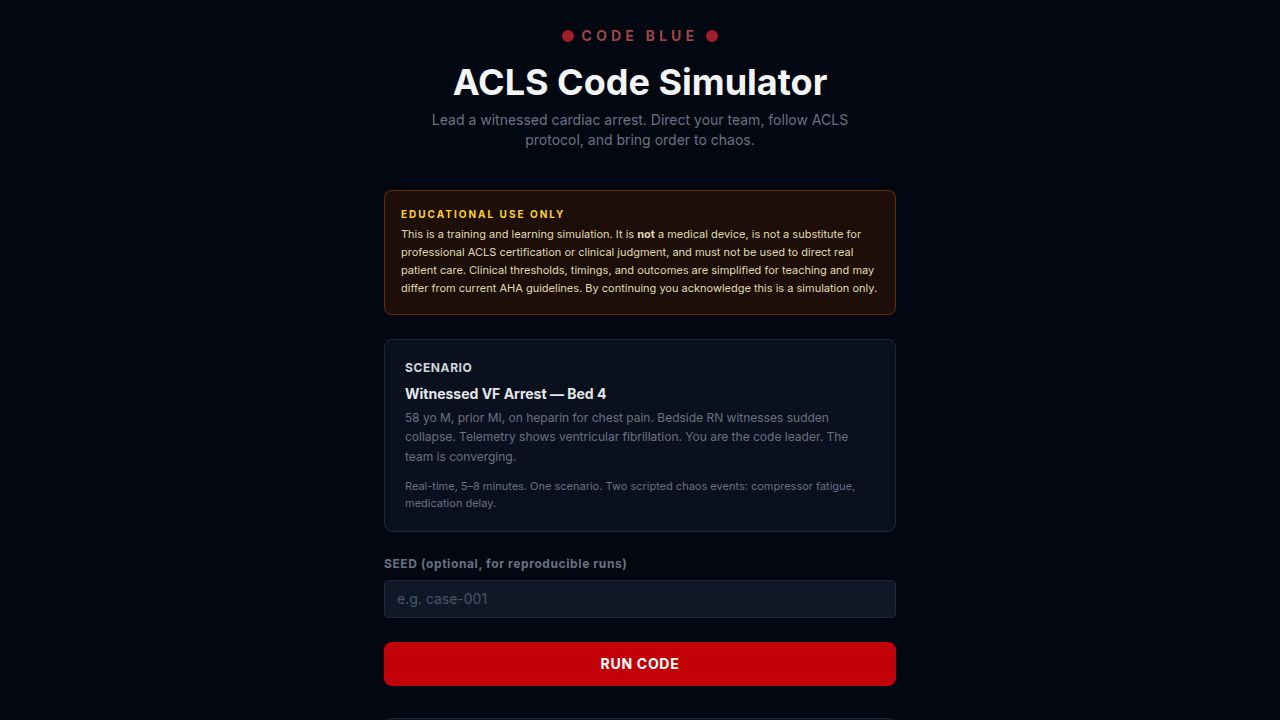
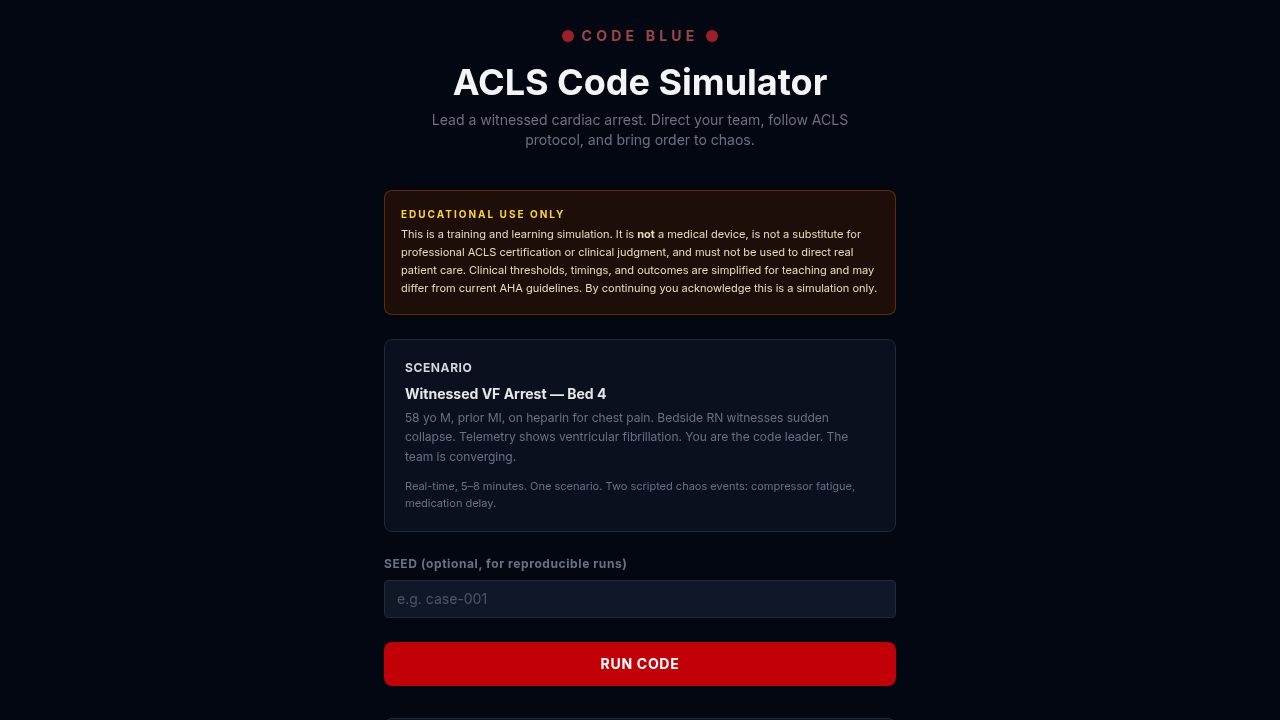
Task #18: Isometric room furniture and depth — make room look like a real ICU bay
Added recognizable ICU furniture silhouettes to all five zones in IsometricRoom.tsx
using pure SVG (no new dependencies). All furniture is drawn using the existing
isometric geometry helpers (isoFloor, isoLeftFace, isoRightFace) or direct SVG
primitives, and updates reactively to game state.

Changes by zone:
- PatientBedFurniture: mattress inset diamond, head rail (3-face isometric box
  with blue top), foot rail, pillow ellipse, and side rail lines along mattress
  edges. Mattress fill brightens during CPR.
- DefibFurniture: defibrillator cart body (3-face isometric box), monitor screen
  face inset into the right face polygon using bilinear interpolation, EKG trace
  line across the screen, and two paddle handles on the cart top. Screen color
  switches amber when charged, cyan otherwise.
- MedCartFurniture: medication cart body with drawer divider lines on the left
  face and an IV bag ellipse + drip line on the cart top surface.
- AirwayCartFurniture: airway cart with drawer dividers on the right face, BVM
  bag ellipse + tube line on top, and an IV pole with crossbar and bag that
  turns green when advanced airway is in place.
- DoorFurniture: door arch rising above the tile — two vertical pillars, a
  quadratic-bezier arch, filled door panel, door handle dot, and lintel bar.

Helper additions:
- isoSlab() alias for isoFloor (semantic clarity for furniture surfaces)
- isoPanel() helper returning {top, left, right} face polygon strings
[…]

diff --git a/artifacts/code-sim/src/components/game/IsometricRoom.tsx b/artifacts/code-sim/src/components/game/IsometricRoom.tsx
@@ -38,6 +38,22 @@ function isoRightFace(cx: number, cy: number, w: number, h: number, fh: number):
   ].join(' ');
 }
 
+/* ── Isometric furniture helpers ──────────────────────────────────── */
+
+/** A thin "slab" top face — handy for rails, shelves, table-tops */
+function isoSlab(cx: number, cy: number, w: number, h: number): string {
+  return isoFloor(cx, cy, w, h);
+}
+
+/** Vertical wall / panel face oriented on the left side */
+function isoPanel(cx: number, cy: number, w: number, h: number, fh: number) {
+  return {
+    top:   isoFloor(cx, cy, w, h),
+    left:  isoLeftFace(cx, cy, w, h, fh),
+    right: isoRightFace(cx, cy, w, h, fh),
+  };
+}
+
 /* ── Room object definitions ──────────────────────────────────────── */
 
 interface RoomZone {
@@ -172,6 +188,240 @@ function menuItemCls(variant: MenuAction['variant'], disabled?: boolean): string
 function clamp(v: number, lo: number, hi: number) { return Math.max(lo, Math.min(hi, v)); }
 
 const NON_TERMINAL = new Set(['issued', 'heard', 'acknowledged', 'in_progress']);
+
+/* ── Zone furniture SVG ───────────────────────────────────────────── */
+
+interface FurnitureProps { zone: RoomZone }
+
+function PatientBedFurniture({ zone, cprActive }: FurnitureProps & { cprActive: boolean }) {
+  const { cx, cy } = zone;
+  // Mattress surface (inset)
+  const mattW = 195, mattH = 96;
+  // Head-board: thin box at top of diamond (toward upper iso point)
+  const headCy = cy - zone.h / 2 + 14; // near top diamond point
+  const headW = 145, headH = 16, headFh = 11;
+  // Foot-board: thinner box near bottom diamond point
+  const footCy = cy + zone.h / 2 - 12;
+  const footW = 120, footH = 13, footFh = 8;
+  // Pillow: tiny diamond just south of head board
+  const pillowCy = headCy + 22;
+
+  const mattFill   = cprActive ? '#1a3a6a' : '#1a3560';
+  const railFill   = '#0e2040';
+  const railTop    = '#2563eb';
+  const railStroke = '#3b82f680';
+
+  return (
+    <g opacity="0.92">
+      {/* Mattress */}
+      <polygon points={isoSlab(cx, cy, mattW, mattH)}
+        fill={mattFill} stroke="#3b82f650" strokeWidth="1" />
+
+      {/* Head board */}
+      <polygon points={isoLeftFace(cx, headCy, headW, headH, headFh)}
+        fill={railFill} stroke={railStroke} strokeWidth="0.5" />
+      <polygon points={isoRightFace(cx, headCy, headW, headH, headFh)}
+        fill="#0a1830" stroke={railStroke} strokeWidth="0.5" />
+      <polygon points={isoSlab(cx, headCy, headW, headH)}
+        fill={railTop} stroke="#60a5fa" strokeWidth="1" />
+
+      {/* Pillow */}
+      <polygon points={isoSlab(cx, pillowCy, 55, 26)}
+        fill="#e2e8f0" stroke="#94a3b8" strokeWidth="0.8" opacity="0.55" />
+
+      {/* Left bed rail (line along left edge of mattress) */}
+      <line
+        x1={cx - mattW / 2} y1={cy}
+        x2={cx}              y2={cy - mattH / 2}
+        stroke="#1d4ed8" strokeWidth="1.2" opacity="0.6" />
+      {/* Right bed rail */}
+      <line
+        x1={cx + mattW / 2} y1={cy}
+        x2={cx}              y2={cy - mattH / 2}
+        stroke="#1d4ed8" strokeWidth="1.2" opacity="0.6" />
+
+      {/* Foot board */}
+      <polygon points={isoLeftFace(cx, footCy, footW, footH, footFh)}
+        fill={railFill} stroke={railStroke} strokeWidth="0.5" />
+      <polygon points={isoRightFace(cx, footCy, footW, footH, footFh)}
+        fill="#0a1830" stroke={railStroke} strokeWidth="0.5" />
+      <polygon points={isoSlab(cx, footCy, footW, footH)}
+        fill={railTop} stroke="#60a5fa" strokeWidth="1" />
+    </g>
+  );
+}
+
+function DefibFurniture({ zone, charged }: FurnitureProps & { charged: boolean }) {
+  const { cx, cy } = zone;
+  // Main defibrillator cart body — sits right-of-centre on the tile
+  const boxCx = cx + 18, boxCy = cy - 8;
+  const bW = 70, bH = 36, bFh = 30;
+  const screenColor = charged ? '#fbbf24' : '#22d3ee';
+
+  // Screen rectangle within the right face of the monitor
+  // Right face corners: (cx+w/2,cy), (cx,cy+h/2), (cx,cy+h/2+fh), (cx+w/2,cy+fh)
+  const rfTL = { x: boxCx + bW / 2,           y: boxCy };
+  const rfBL = { x: boxCx,                     y: boxCy + bH / 2 };
+  const rfBR = { x: boxCx,                     y: boxCy + bH / 2 + bFh };
+  const rfTR = { x: boxCx + bW / 2,            y: boxCy + bFh };
+  // Screen inset (70% of face)
+  const sw = 0.65, sh = 0.6, ox = 0.15, oy = 0.2;
+  function lerp2(a: {x:number,y:number}, b: {x:number,y:number}, t: number) {
+    return { x: a.x + (b.x - a.x) * t, y: a.y + (b.y - a.y) * t };
+  }
+  const scrTL = lerp2(lerp2(rfTL, rfBL, oy),         lerp2(rfTR, rfBR, oy),         ox);
+  const scrTR = lerp2(lerp2(rfTL, rfBL, oy),         lerp2(rfTR, rfBR, oy),         ox + sw);
+  const scrBL = lerp2(lerp2(rfTL, rfBL, oy + sh),    lerp2(rfTR, rfBR, oy + sh),    ox);
+  const scrBR = lerp2(lerp2(rfTL, rfBL, oy + sh),    lerp2(rfTR, rfBR, oy + sh),    ox + sw);
+
+  return (
+    <g opacity="0.93">
+      <polygon points={isoLeftFace(boxCx, boxCy, bW, bH, bFh)}
+        fill="#1a0808" stroke="#ef444440" strokeWidth="0.5" />
+      <polygon points={isoRightFace(boxCx, boxCy, bW, bH, bFh)}
+        fill="#250d0d" stroke="#ef444440" strokeWidth="0.5" />
+      <polygon points={isoSlab(boxCx, boxCy, bW, bH)}
+        fill="#3b1212" stroke="#ef4444" strokeWidth="1" />
+      {/* Monitor screen */}
+      <polygon
+        points={`${scrTL.x},${scrTL.y} ${scrTR.x},${scrTR.y} ${scrBR.x},${scrBR.y} ${scrBL.x},${scrBL.y}`}
+        fill={charged ? '#78350f' : '#0c2a2e'}
+        stroke={screenColor}
+        strokeWidth="1"
+        opacity="0.9"
+      />
+      {/* Screen glow line (EKG trace) */}
+      <line
+        x1={(scrTL.x + scrBL.x) / 2} y1={(scrTL.y + scrBL.y) / 2}
+        x2={(scrTR.x + scrBR.x) / 2} y2={(scrTR.y + scrBR.y) / 2}
+        stroke={screenColor} strokeWidth="1" opacity="0.7"
+      />
+      {/* Paddles on top */}
+      <line x1={boxCx - 4} y1={boxCy - bH / 2 + 2} x2={boxCx - 18} y2={boxCy - bH / 2 - 5}
+        stroke="#9ca3af" strokeWidth="1.5" />
+      <line x1={boxCx + 10} y1={boxCy - bH / 2 + 4} x2={boxCx + 22} y2={boxCy - bH / 2 - 4}
+        stroke="#9ca3af" strokeWidth="1.5" />
+    </g>
+  );
+}
+
+function MedCartFurniture({ zone }: FurnitureProps) {
+  const { cx, cy } = zone;
+  const boxCx = cx - 8, boxCy = cy - 6;
+  const bW = 65, bH = 35, bFh = 26;
+
+  return (
+    <g opacity="0.9">
+      <polygon points={isoLeftFace(boxCx, boxCy, bW, bH, bFh)}
+        fill="#0a180a" stroke="#22c55e40" strokeWidth="0.5" />
+      <polygon points={isoRightFace(boxCx, boxCy, bW, bH, bFh)}
+        fill="#0e1e0e" stroke="#22c55e40" strokeWidth="0.5" />
+      <polygon points={isoSlab(boxCx, boxCy, bW, bH)}
+        fill="#1a3a1a" stroke="#22c55e" strokeWidth="1" />
+      {/* Drawer divider lines on left face */}
+      {[0.35, 0.65].map((t, i) => {
+        const lf = isoLeftFace(boxCx, boxCy, bW, bH, bFh).split(' ').map(p => ({ x: +p.split(',')[0], y: +p.split(',')[1] }));
+        const y1 = lf[0].y + (lf[1].y - lf[0].y) * t + (lf[3].y - lf[0].y) * 0;
+        const x1 = lf[0].x + (lf[1].x - lf[0].x) * t;
+        const y2 = lf[3].y + (lf[2].y - lf[3].y) * t;
+        const x2 = lf[3].x + (lf[2].x - lf[3].x) * t;
+        return <line key={i} x1={x1} y1={y1} x2={x2} y2={y2} stroke="#22c55e50" strokeWidth="0.8" />;
+      })}
+      {/* IV bag/bottle silhouette on top */}
+      <ellipse cx={boxCx + 5} cy={boxCy - bH / 2 - 2} rx={7} ry={4}
+        fill="#052e16" stroke="#4ade80" strokeWidth="0.8" opacity="0.85" />
+      {/* Drip line */}
+      <line x1={boxCx + 5} y1={boxCy - bH / 2 + 2} x2={boxCx + 5} y2={boxCy - bH / 2 + 10}
+        stroke="#4ade80" strokeWidth="0.6" opacity="0.6" />
+    </g>
+  );
+}
+
+function AirwayCartFurniture({ zone, hasAdvanced }: FurnitureProps & { hasAdvanced: boolean }) {
+  const { cx, cy } = zone;
+  const boxCx = cx + 5, boxCy = cy - 4;
+  const bW = 72, bH = 40, bFh = 22;
+  // IV / airway pole — sits to the right of the cart
+  const poleCx = cx + 55, poleCy = cy;
+
+  return (
+    <g opacity="0.93">
+      {/* Cart body */}
+      <polygon points={isoLeftFace(boxCx, boxCy, bW, bH, bFh)}
+        fill="#1a1404" stroke="#f59e0b40" strokeWidth="0.5" />
+      <polygon points={isoRightFace(boxCx, boxCy, bW, bH, bFh)}
+        fill="#211a05" stroke="#f59e0b40" strokeWidth="0.5" />
+      <polygon points={isoSlab(boxCx, boxCy, bW, bH)}
+        fill="#2d2206" stroke="#f59e0b" strokeWidth="1" />
+      {/* Drawer dividers on right face */}
+      {[0.4, 0.72].map((t, i) => {
+        const lf = isoRightFace(boxCx, boxCy, bW, bH, bFh).split(' ').map(p => ({ x: +p.split(',')[0], y: +p.split(',')[1] }));
+        const x1 = lf[0].x + (lf[1].x - lf[0].x) * t;
+        const y1 = lf[0].y + (lf[1].y - lf[0].y) * t;
+        const x2 = lf[3].x + (lf[2].x - lf[3].x) * t;
+        const y2 = lf[3].y + (lf[2].y - lf[3].y) * t;
+        return <line key={i} x1={x1} y1={y1} x2={x2} y2={y2} stroke="#f59e0b50" strokeWidth="0.8" />;
+      })}
+      {/* Tubes / BVM bag on top */}
+      <ellipse cx={boxCx - 6} cy={boxCy - bH / 2 - 3} rx={10} ry={5}
+        fill="#1c1003" stroke="#fcd34d" strokeWidth="0.9" opacity="0.9" />
+      <line x1={boxCx - 6} y1={boxCy - bH / 2 + 2} x2={boxCx + 10} y2={boxCy - bH / 2 + 8}
+        stroke="#fcd34d" strokeWidth="0.7" opacity="0.55" />
+
+      {/* Airway pole (IV stand) */}
+      <line x1={poleCx} y1={poleCy - bH / 2 - 2} x2={poleCx} y2={poleCy - bH / 2 - 28}
+        stroke={hasAdvanced ? '#4ade80' : '#6b7280'} strokeWidth="1.5" />
+      {/* Hook / cross-bar at top */}
+      <line x1={poleCx - 7} y1={poleCy - bH / 2 - 26} x2={poleCx + 7} y2={poleCy - bH / 2 - 26}
+        stroke={hasAdvanced ? '#4ade80' : '#6b7280'} strokeWidth="1.5" />
+      {/* IV bag on pole */}
+      <ellipse cx={poleCx} cy={poleCy - bH / 2 - 28} rx={5} ry={3}
+        fill={hasAdvanced ? '#052e16' : '#111827'}
+        stroke={hasAdvanced ? '#4ade80' : '#374151'} strokeWidth="0.8" opacity="0.9" />
+    </g>
+  );
+}
+
+function DoorFurniture({ zone }: FurnitureProps) {
+  const { cx, cy, w, h } = zone;
+  // The door tile diamond: top=(cx,cy-h/2), right=(cx+w/2,cy), bottom=(cx,cy+h/2), left=(cx-w/2,cy)
+  // Draw a door arch rising from the tile's top face
+  const topY = cy - h / 2; // top diamond point y
+  const archH = 32;        // how high the arch rises above the tile
+
+  // Left pillar of door frame (left side of top diamond point)
+  const lx1 = cx - 18, lx2 = cx - 18;
+  const rx1 = cx + 18, rx2 = cx + 18;
+  const baseY = topY + 4;
+  const archTopY = topY - archH;
+
+  return (
+    <g opacity="0.85">
+      {/* Left door pillar */}
+      <line x1={lx1} y1={baseY} x2={lx2} y2={archTopY + 8}
+        stroke="#6b7280" strokeWidth="2.5" />
+      {/* Right door pillar */}
+      <line x1={rx1} y1={baseY} x2={rx2} y2={archTopY + 8}
+        stroke="#6b7280" strokeWidth="2.5" />
+      {/* Arch (semicircle) */}
+      <path
+        d={`M ${lx1} ${archTopY + 8} Q ${cx} ${archTopY - 6} ${rx1} ${archTopY + 8}`}
+        fill="none" stroke="#6b7280" strokeWidth="2.5"
+      />
+      {/* Door panel fill */}
+      <path
+        d={`M ${lx1 + 2} ${baseY} L ${lx1 + 2} ${archTopY + 9} Q ${cx} ${archTopY - 4} ${rx1 - 2} ${archTopY + 9} L ${rx1 - 2} ${baseY} Z`}
+        fill="#111827" stroke="none" opacity="0.7"
+      />
+      {/* Door handle dot */}
+      <circle cx={cx + 10} cy={(baseY + archTopY) / 2 + 4} r={2.5}
+        fill="#9ca3af" opacity="0.85" />
+      {/* Lintel (top bar) */}
+      <line x1={lx1 - 3} y1={archTopY + 8} x2={rx1 + 3} y2={archTopY + 8}
+        stroke="#4b5563" strokeWidth="1" />
+    </g>
+  );
+}
 
 /* ── Main component ───────────────────────────────────────────────── */
 
@@ -378,6 +628,23 @@ export default function IsometricRoom({ ui, actions }: IsometricRoomProps) {
                 strokeWidth={strokeW}
                 filter={isCharged ? 'url(#iso-glow-amber)' : isCprBed ? 'url(#iso-glow-blue)' : undefined}
               />
+              {/* Zone furniture */}
+              {z.id === 'patient_bed' && (
+                <PatientBedFurniture zone={z} cprActive={ui.cprActive} />
+              )}
+              {z.id === 'defib_station' && (
+                <DefibFurniture zone={z} charged={ui.defibCharged} />
+              )}
+              {z.id === 'medication_station' && (
+                <MedCartFurniture zone={z} />
+              )}
+              {z.id === 'airway_station' && (
+                <AirwayCartFurniture zone={z} hasAdvanced={ui.hasAdvancedAirway} />
+              )}
+              {z.id === 'door' && (
+                <DoorFurniture zone={z} />
+              )}
+
               {/* Zone label */}
               <text
                 x={z.cx}